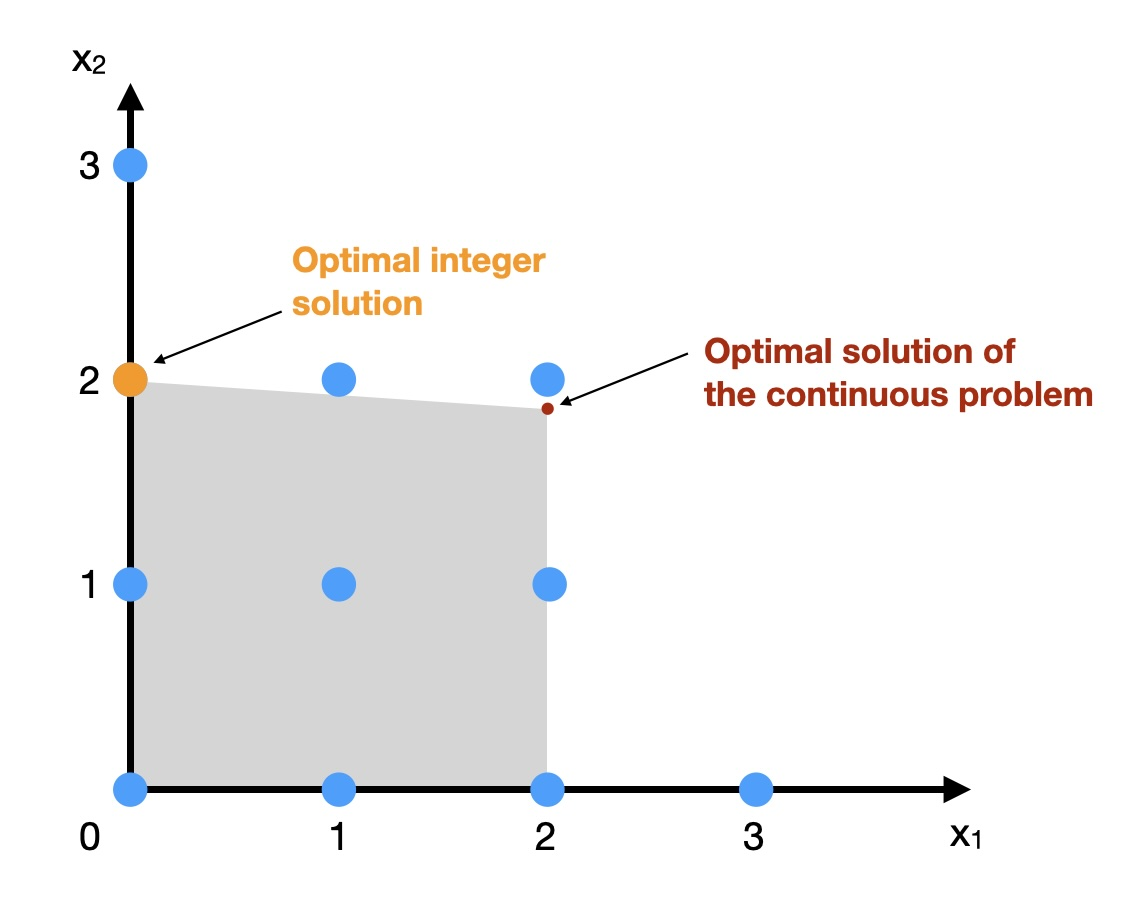
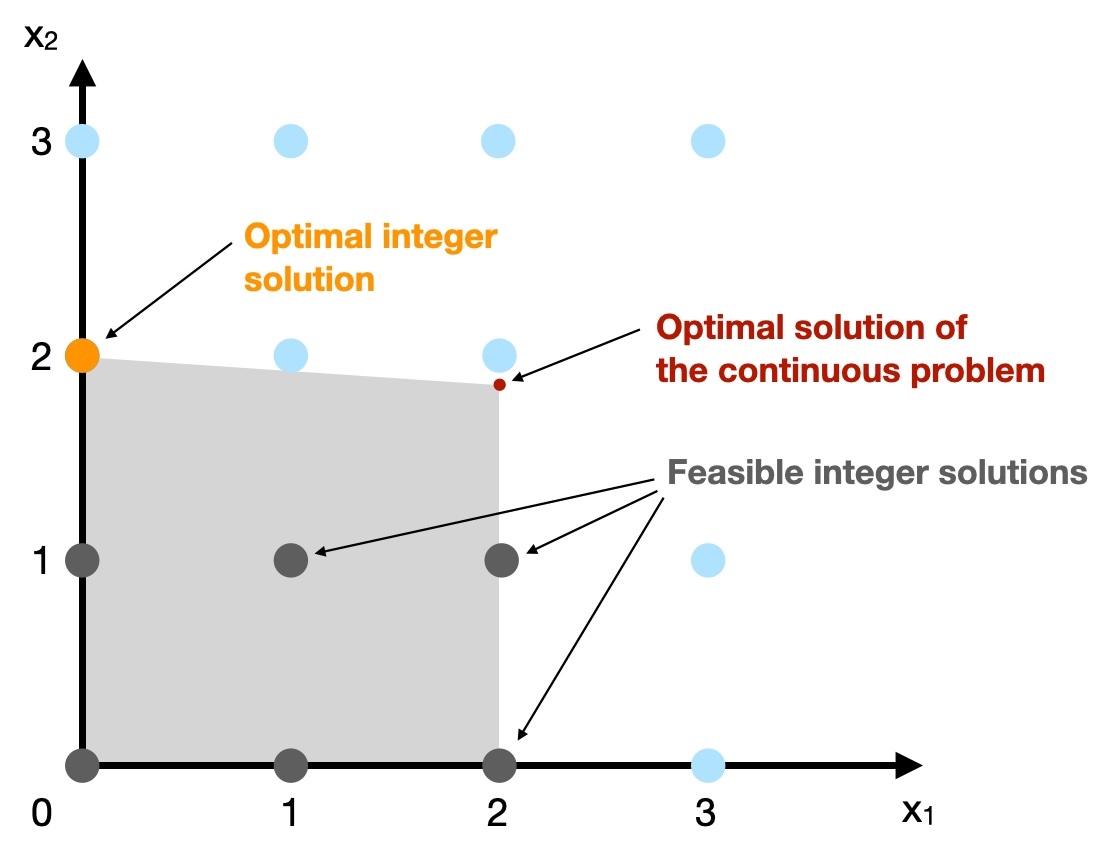
Fix to LP-MILP figure; Changelog updated

diff --git a/basics/markets-milp.md b/basics/markets-milp.md
@@ -89,7 +89,7 @@ We can contrast the above problem to this slightly modified version, where we in
     &~ x_1, x_2 \text{ are integers}
 \end{align}
 
-How do the optimal solutions to these two problems compare? Counter-intuitively, as we can see in {numref}`fig:markets-milp:milp-solution`, the optimal solution to the mixed-integer (MILP) problem is quite far away from the solution to the purely continuous (LP) problem: the red dot shows the optimal solution if $x_1$ and $x_2$ are continuous, the orange dot shows the optimal integer solution (note that the integer constraints turn the feasible region from the grey space to the set of blue dots). This example demonstrates that it is not straightforward to solve an MILP problem: we cannot simply solve an LP version of the problem and then look for the closest integer solution by "rounding" our variable values to integers.
+How do the optimal solutions to these two problems compare? Counter-intuitively, as we can see in {numref}`fig:markets-milp:milp-solution`, the optimal solution to the mixed-integer (MILP) problem is quite far away from the solution to the purely continuous (LP) problem: the red dot shows the optimal solution if $x_1$ and $x_2$ are continuous, the orange dot shows the optimal integer solution (note that the integer constraints turn the feasible region from the grey space to the set of grey dots). This example demonstrates that it is not straightforward to solve an MILP problem: we cannot simply solve an LP version of the problem and then look for the closest integer solution by "rounding" our variable values to integers.
 
 ```{figure} ../images/milp-solution.jpg
 :name: fig:markets-milp:milp-solution

diff --git a/changelog.md b/changelog.md
@@ -4,6 +4,12 @@ title: Changelog
 
 # Changelog
 
+## Version 2025-10
+
+* MCP: Clarified the relationship between actors in electricity markets, including Nash and Nash-Cournot games
+* MCP: Updated the market clearing problem explanation and introduced the use of inverse demand functions
+* MILP: Fixed LP-to-MILP comparison figure
+
 ## Version 2025-09.2
 
 * Updated environment definition to address MacOS installation issues
